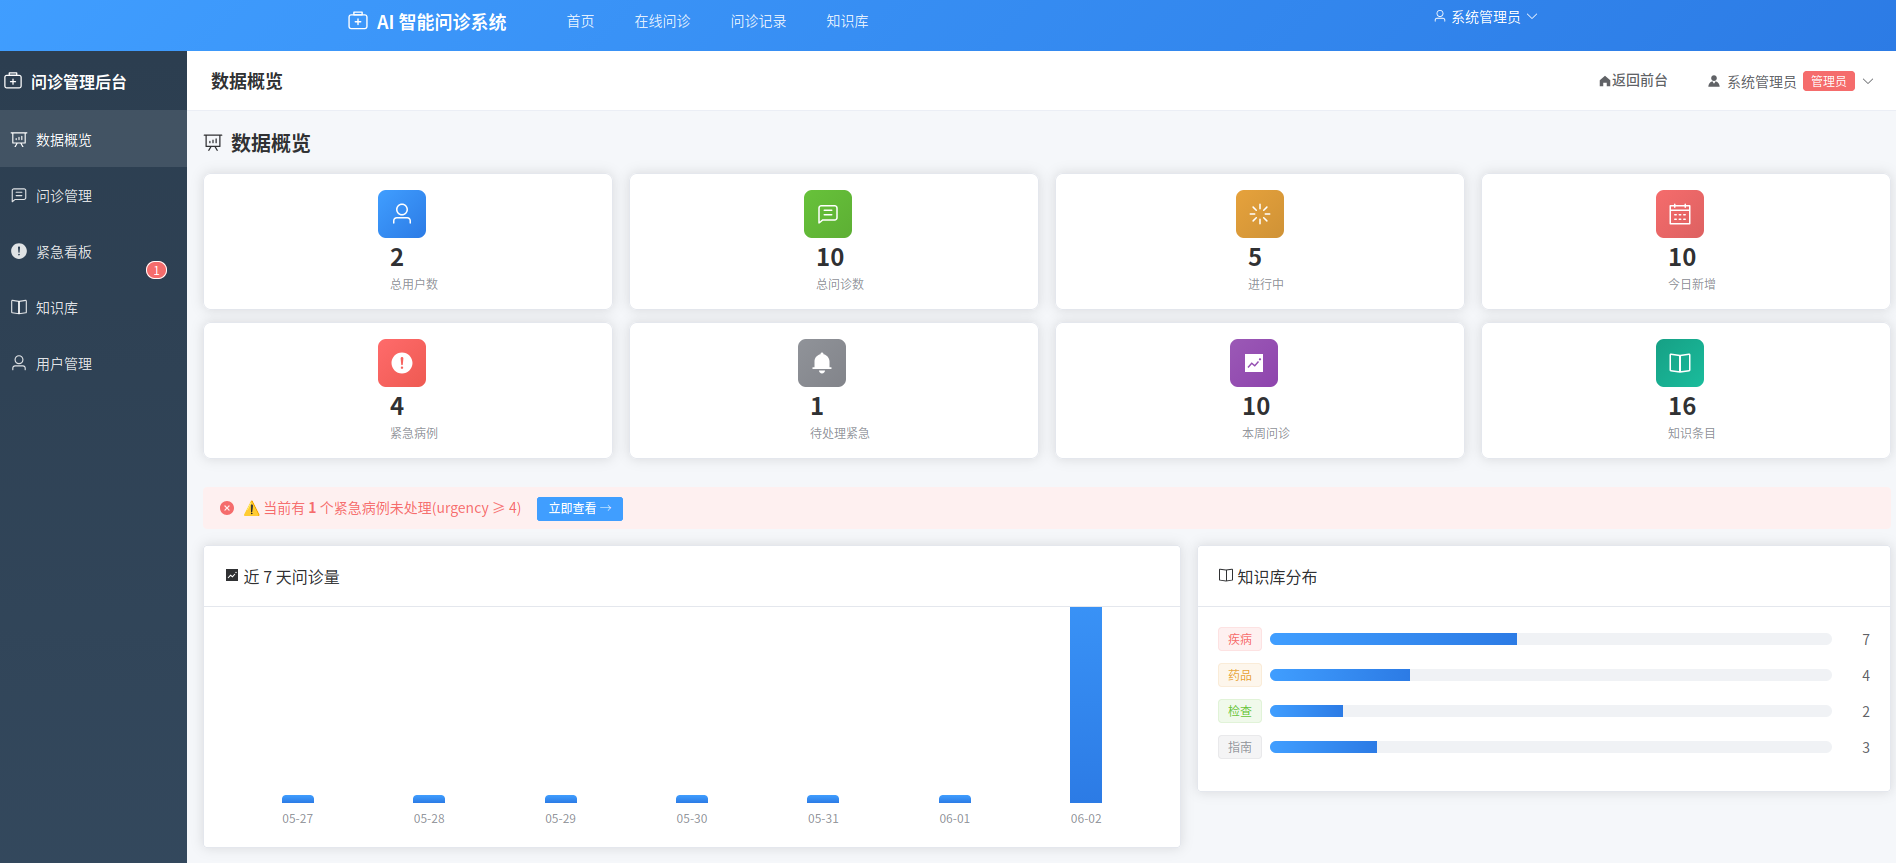
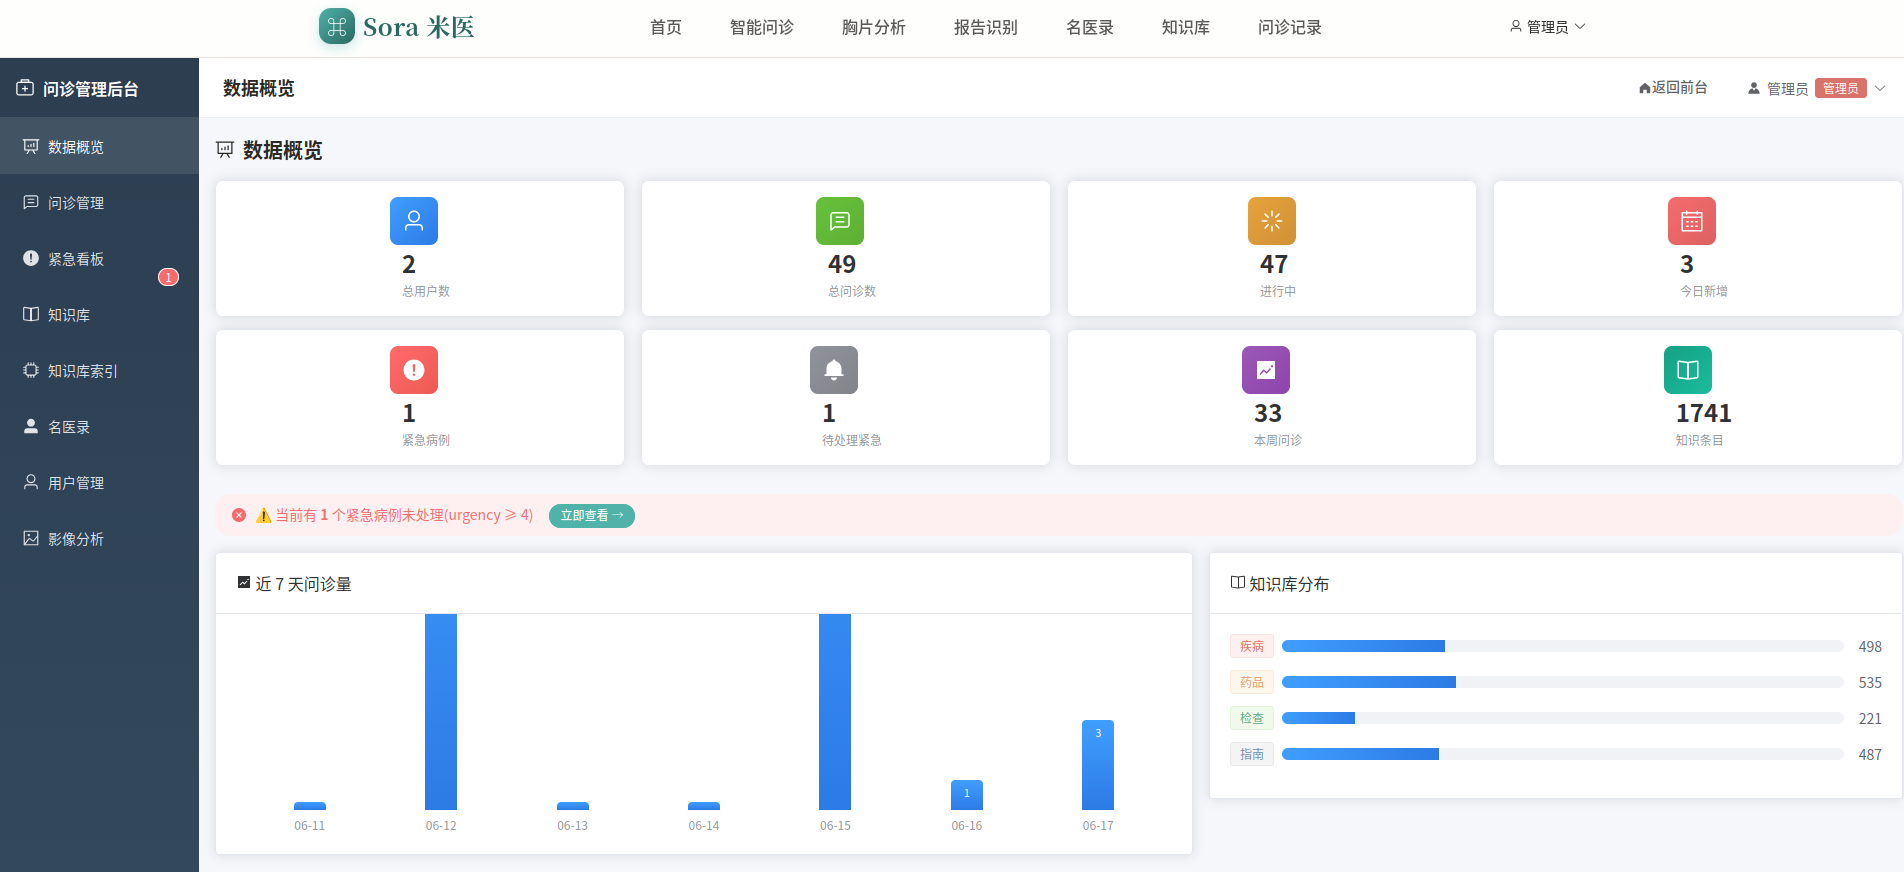
docs: 更新截图 — 后台管理 / 问诊分析页面 + 新增名医录截图
- 后台管理页面/README_20260602182625937.png:新版 UI
- 问诊分析页面/README_20260602182934690.png:新版 UI
- 新增名医录/README_20260617150900121.png
- README 系统界面区插入名医录截图

diff --git a/README.md b/README.md
@@ -687,6 +687,9 @@ curl -X POST http://localhost:8000/api/v1/user/register \
 问诊分析页面
 ![](image/README_20260602182934690.png)
 
+名医录
+![](image/README_20260617150900121.png)
+
 可后台丰富的医学知识库
 ![](image/README_20260602183028691.png)
 
